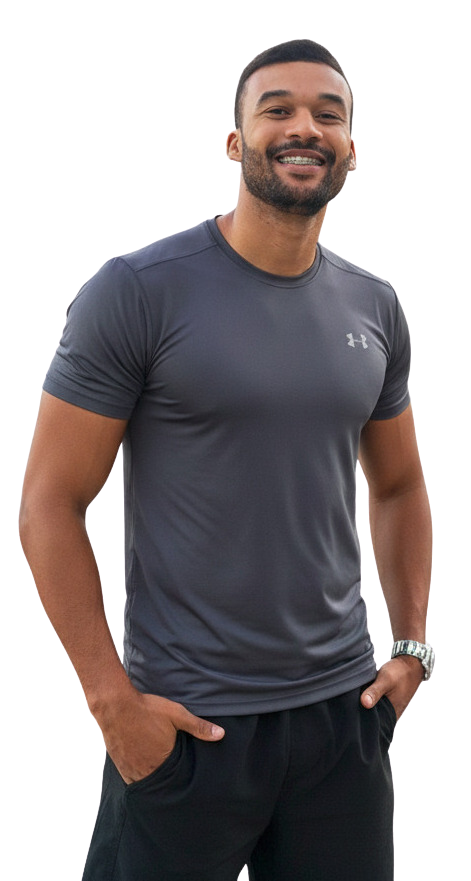
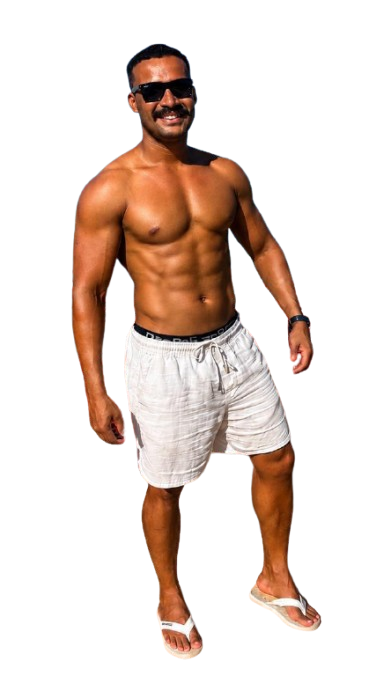
Adicionado evolução do Personal

diff --git a/style.css b/style.css
@@ -137,18 +137,165 @@ body {
 .hero-text { font-family: var(--font-body); color: var(--text-secondary); font-size: clamp(1.05rem, 2vw, 1.25rem); line-height: 1.75; max-width: 680px; margin: 0 auto 44px auto; }
 
 
-/* --- 4. SEÇÃO SOBRE MIM --- */
-.about-section { position: relative; background-color: var(--bg-surface); padding: 120px 5%; border-top: 1px solid var(--border-subtle); }
-.section-title h2 { font-family: var(--font-heading); font-size: clamp(2.2rem, 4.5vw, 3.2rem); text-transform: uppercase; letter-spacing: 1px; text-align: center; margin-bottom: 60px; }
-.about-container { display: flex; align-items: center; gap: 64px; max-width: 1200px; margin: 0 auto; }
-.about-photo-wrapper { flex: 1; max-width: 480px; position: relative; }
-.photo-glow { position: absolute; inset: -10px; background: var(--gold-gradient); border-radius: 20px; filter: blur(25px); opacity: 0.2; z-index: 0; }
-.about-photo-wrapper img { position: relative; z-index: 1; width: 100%; height: auto; border-radius: var(--radius-lg); border: 1px solid var(--border-highlight); object-fit: cover; box-shadow: 0 20px 40px rgba(0, 0, 0, 0.6); }
-.about-text-card { flex: 1; background: var(--bg-glass); backdrop-filter: blur(12px); -webkit-backdrop-filter: blur(12px); border: 1px solid var(--border-subtle); border-radius: var(--radius-lg); padding: 40px; box-shadow: 0 15px 35px rgba(0, 0, 0, 0.4); }
-.about-text-card h3 { font-family: var(--font-heading); color: var(--primary-yellow); font-size: 1.6rem; text-transform: uppercase; margin-bottom: 24px; letter-spacing: 0.5px; }
-.about-text-card p { font-size: 1.05rem; line-height: 1.75; color: var(--text-secondary); margin-bottom: 20px; }
-.about-text-card strong { color: var(--primary-white); font-weight: 600; }
-.about-highlight-quote { color: var(--text-primary) !important; border-left: 3px solid var(--primary-yellow); padding-left: 16px; margin-top: 24px; margin-bottom: 0 !important; font-style: italic; }
+/* --- 4. SEÇÃO SOBRE MIM (MOLDURA DUPLA EVOLUÇÃO) --- */
+.about-section {
+    position: relative;
+    background-color: var(--bg-surface);
+    padding: 120px 5%;
+    border-top: 1px solid var(--border-subtle);
+}
+
+.section-title h2 {
+    font-family: var(--font-heading);
+    font-size: clamp(2.2rem, 4.5vw, 3.2rem);
+    text-transform: uppercase;
+    letter-spacing: 1px;
+    text-align: center;
+    margin-bottom: 60px;
+}
+
+.about-container {
+    display: flex;
+    align-items: center;
+    gap: 56px;
+    max-width: 1240px;
+    margin: 0 auto;
+}
+
+.about-photo-wrapper {
+    flex: 1.15;
+    max-width: 560px;
+    position: relative;
+}
+
+.photo-glow {
+    position: absolute;
+    inset: -10px;
+    background: var(--gold-gradient);
+    border-radius: 20px;
+    filter: blur(28px);
+    opacity: 0.18;
+    z-index: 0;
+}
+
+/* Grid Lado a Lado */
+.evolution-grid {
+    position: relative;
+    z-index: 1;
+    display: grid;
+    grid-template-columns: 1fr 1fr;
+    gap: 16px;
+    align-items: stretch;
+}
+
+.evolution-card {
+    position: relative;
+    border-radius: var(--radius-lg);
+    overflow: hidden;
+    height: 480px;
+    background-color: var(--bg-main);
+    box-shadow: 0 20px 40px rgba(0, 0, 0, 0.6);
+}
+
+.evolution-card img {
+    width: 100%;
+    height: 100%;
+    object-fit: cover;
+    display: block;
+    transition: transform 0.45s cubic-bezier(0.16, 1, 0.3, 1), filter 0.45s ease;
+}
+
+/* Estilo da Foto "O Início" (Antes) */
+.evolution-before {
+    border: 1px solid var(--border-subtle);
+}
+
+.evolution-before img {
+    filter: grayscale(65%) contrast(1.05) brightness(0.88);
+}
+
+.evolution-before:hover img {
+    filter: grayscale(15%) brightness(1);
+    transform: scale(1.04);
+}
+
+/* Estilo da Foto "Alta Performance" (Depois) */
+.evolution-after {
+    border: 2px solid var(--primary-yellow);
+    box-shadow: var(--glow-gold);
+}
+
+.evolution-after:hover img {
+    transform: scale(1.04);
+}
+
+/* Etiquetas Flutuantes (Badges) */
+.evolution-badge {
+    position: absolute;
+    top: 14px;
+    left: 14px;
+    z-index: 2;
+    padding: 6px 14px;
+    border-radius: var(--radius-pill);
+    font-family: var(--font-heading);
+    font-size: 0.72rem;
+    letter-spacing: 1px;
+    text-transform: uppercase;
+    background: rgba(14, 14, 18, 0.8);
+    backdrop-filter: blur(8px);
+    -webkit-backdrop-filter: blur(8px);
+    color: var(--text-secondary);
+    border: 1px solid var(--border-subtle);
+}
+
+.evolution-badge.badge-gold {
+    background: var(--gold-gradient);
+    color: #050507;
+    border: none;
+    box-shadow: 0 4px 15px rgba(255, 215, 0, 0.35);
+}
+
+/* Card de Texto */
+.about-text-card {
+    flex: 1;
+    background: var(--bg-glass);
+    backdrop-filter: blur(12px);
+    -webkit-backdrop-filter: blur(12px);
+    border: 1px solid var(--border-subtle);
+    border-radius: var(--radius-lg);
+    padding: 40px;
+    box-shadow: 0 15px 35px rgba(0, 0, 0, 0.4);
+}
+
+.about-text-card h3 {
+    font-family: var(--font-heading);
+    color: var(--primary-yellow);
+    font-size: 1.6rem;
+    text-transform: uppercase;
+    margin-bottom: 24px;
+    letter-spacing: 0.5px;
+}
+
+.about-text-card p {
+    font-size: 1.05rem;
+    line-height: 1.75;
+    color: var(--text-secondary);
+    margin-bottom: 20px;
+}
+
+.about-text-card strong {
+    color: var(--primary-white);
+    font-weight: 600;
+}
+
+.about-highlight-quote {
+    color: var(--text-primary) !important;
+    border-left: 3px solid var(--primary-yellow);
+    padding-left: 16px;
+    margin-top: 24px;
+    margin-bottom: 0 !important;
+    font-style: italic;
+}
 
 
 /* --- 5. SEÇÃO CONSULTORIA (BENTO GRID & SPOTLIGHT) --- */
@@ -182,7 +329,7 @@ body {
 .scroller-inner img:hover { filter: grayscale(0%) contrast(1); transform: scale(1.02); }
 
 
-/* --- 7. SEÇÃO DEPOIMENTOS (CORRIGIDO: 1 POR VEZ) --- */
+/* --- 7. SEÇÃO DEPOIMENTOS (1 POR VEZ) --- */
 .testimonials-section {
     position: relative;
     padding: 120px 5%;
@@ -201,9 +348,9 @@ body {
     background: var(--bg-surface);
     border: 1px solid var(--border-subtle);
     border-radius: var(--radius-lg);
-    padding: 50px 0; /* Sem padding horizontal no container para não vazar o próximo slide */
+    padding: 50px 0;
     box-shadow: 0 20px 40px rgba(0, 0, 0, 0.4);
-    overflow: hidden; /* Esconde totalmente os outros depoimentos */
+    overflow: hidden;
 }
 
 .testimonials-slider {
@@ -214,9 +361,9 @@ body {
 
 .testimonial-slide {
     min-width: 100%;
-    flex: 0 0 100%; /* Garante que cada depoimento ocupe 100% do espaço */
+    flex: 0 0 100%;
     box-sizing: border-box;
-    padding: 0 85px; /* Espaço interno para o texto não encostar nas setas */
+    padding: 0 85px;
     display: flex;
     flex-direction: column;
     align-items: center;
@@ -281,7 +428,7 @@ body {
 .slider-nav.next { right: 18px; }
 
 
-/* --- 8. SEÇÃO PLANOS (CORRIGIDO: SELO MAIS POPULAR VISÍVEL) --- */
+/* --- 8. SEÇÃO PLANOS (SELO MAIS POPULAR VISÍVEL) --- */
 .plans-section {
     position: relative;
     padding: 120px 5%;
@@ -297,7 +444,7 @@ body {
     max-width: 1200px;
     margin: 0 auto;
     flex-wrap: wrap;
-    padding-top: 15px; /* Espaço extra no topo para o selo respirar */
+    padding-top: 15px;
 }
 
 .plan-card {
@@ -309,7 +456,7 @@ body {
     max-width: 380px;
     padding: 48px 35px 40px 35px;
     text-align: center;
-    overflow: visible; /* Permite que o selo 'MAIS POPULAR' apareça inteiro na borda */
+    overflow: visible;
 }
 
 .highlighted-plan {
@@ -346,7 +493,7 @@ body {
     font-size: 0.85rem;
     text-transform: uppercase;
     letter-spacing: 1px;
-    white-space: nowrap; /* Impede que o texto quebre ou corte */
+    white-space: nowrap;
     box-shadow: 0 6px 20px rgba(255, 215, 0, 0.35);
     z-index: 10;
 }
@@ -388,8 +535,12 @@ body {
     .hero-section { padding: 130px 20px 60px 20px; }
     .about-section, .consultoria-section, .results-section, .testimonials-section, .plans-section, .contact-section { padding: 90px 20px; }
     
+    /* Sobre Mim e Moldura Dupla no Mobile */
     .about-container { flex-direction: column; text-align: center; gap: 40px; }
-    .about-photo-wrapper { max-width: 360px; margin: 0 auto; }
+    .about-photo-wrapper { width: 100%; max-width: 500px; margin: 0 auto; }
+    .evolution-grid { gap: 10px; }
+    .evolution-card { height: 330px; }
+    .evolution-badge { top: 10px; left: 10px; padding: 5px 10px; font-size: 0.62rem; }
     .about-text-card { padding: 30px 20px; }
     .about-highlight-quote { border-left: none; border-top: 3px solid var(--primary-yellow); padding-left: 0; padding-top: 16px; }
 
@@ -413,7 +564,7 @@ body {
     .testimonial-carousel::-webkit-scrollbar { display: none; }
     .testimonials-slider {
         transition: none;
-        transform: none !important; /* Evita conflito com o JS do desktop */
+        transform: none !important;
         gap: 0;
     }
     .testimonial-slide {

diff --git a/index.html b/index.html
@@ -67,15 +67,32 @@
         </section>
 
         <!-- 2. SEÇÃO SOBRE MIM -->
+        <!-- 2. SEÇÃO SOBRE MIM -->
         <section id="sobre" class="about-section">
             <div class="section-title">
                 <h2>SOBRE <span class="highlight-gradient">MIM</span></h2>
             </div>
             
             <div class="about-container">
+                <!-- Moldura Dupla: Evolução Antes e Depois -->
                 <div class="about-photo-wrapper">
                     <div class="photo-glow"></div>
-                    <img src="assets/willians.png" class="williansfoto" alt="Foto de Willians Lima, personal trainer e especialista em alta performance">
+                    
+                    <div class="evolution-grid">
+                        <!-- Foto 1: Antes -->
+                        <div class="evolution-card evolution-before">
+                            <span class="evolution-badge">O INÍCIO</span>
+                            <!-- Troque pelo caminho da foto do ANTES -->
+                            <img src="assets/willinas-antes.png" alt="Físico de Willians Lima no início da jornada">
+                        </div>
+
+                        <!-- Foto 2: Depois (Atual) -->
+                        <div class="evolution-card evolution-after">
+                            <span class="evolution-badge badge-gold">ALTA PERFORMANCE</span>
+                            <!-- Foto atual do DEPOIS -->
+                            <img src="assets/willians.png" alt="Físico atual de Willians Lima em alta performance">
+                        </div>
+                    </div>
                 </div>
                 
                 <div class="about-text-card">
